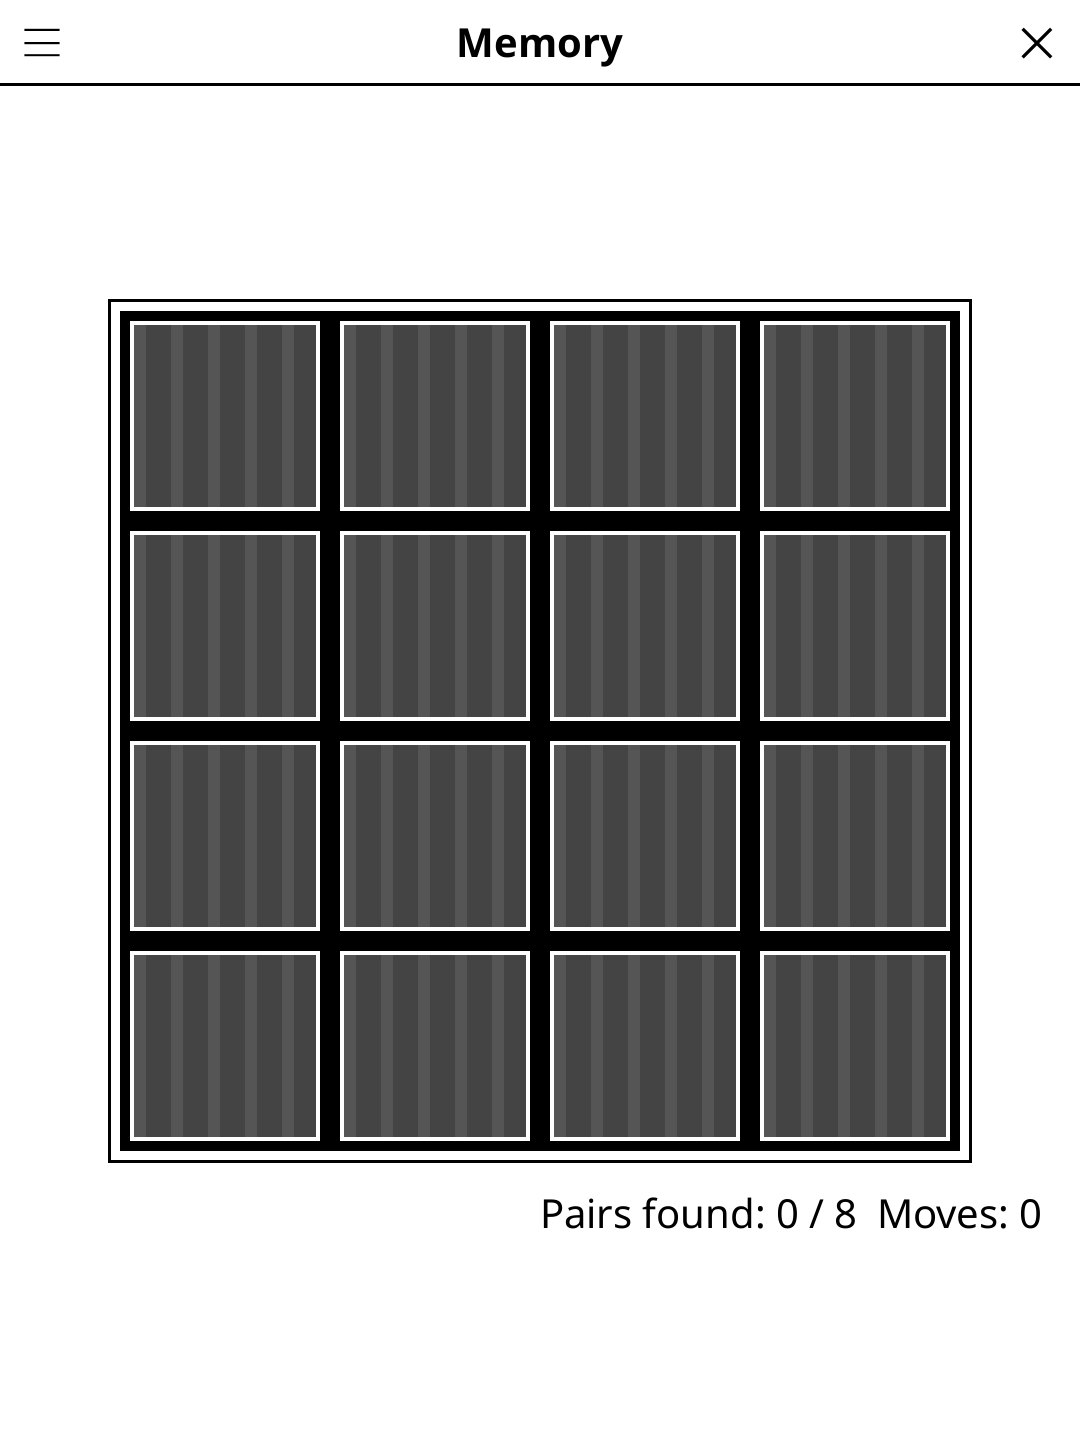
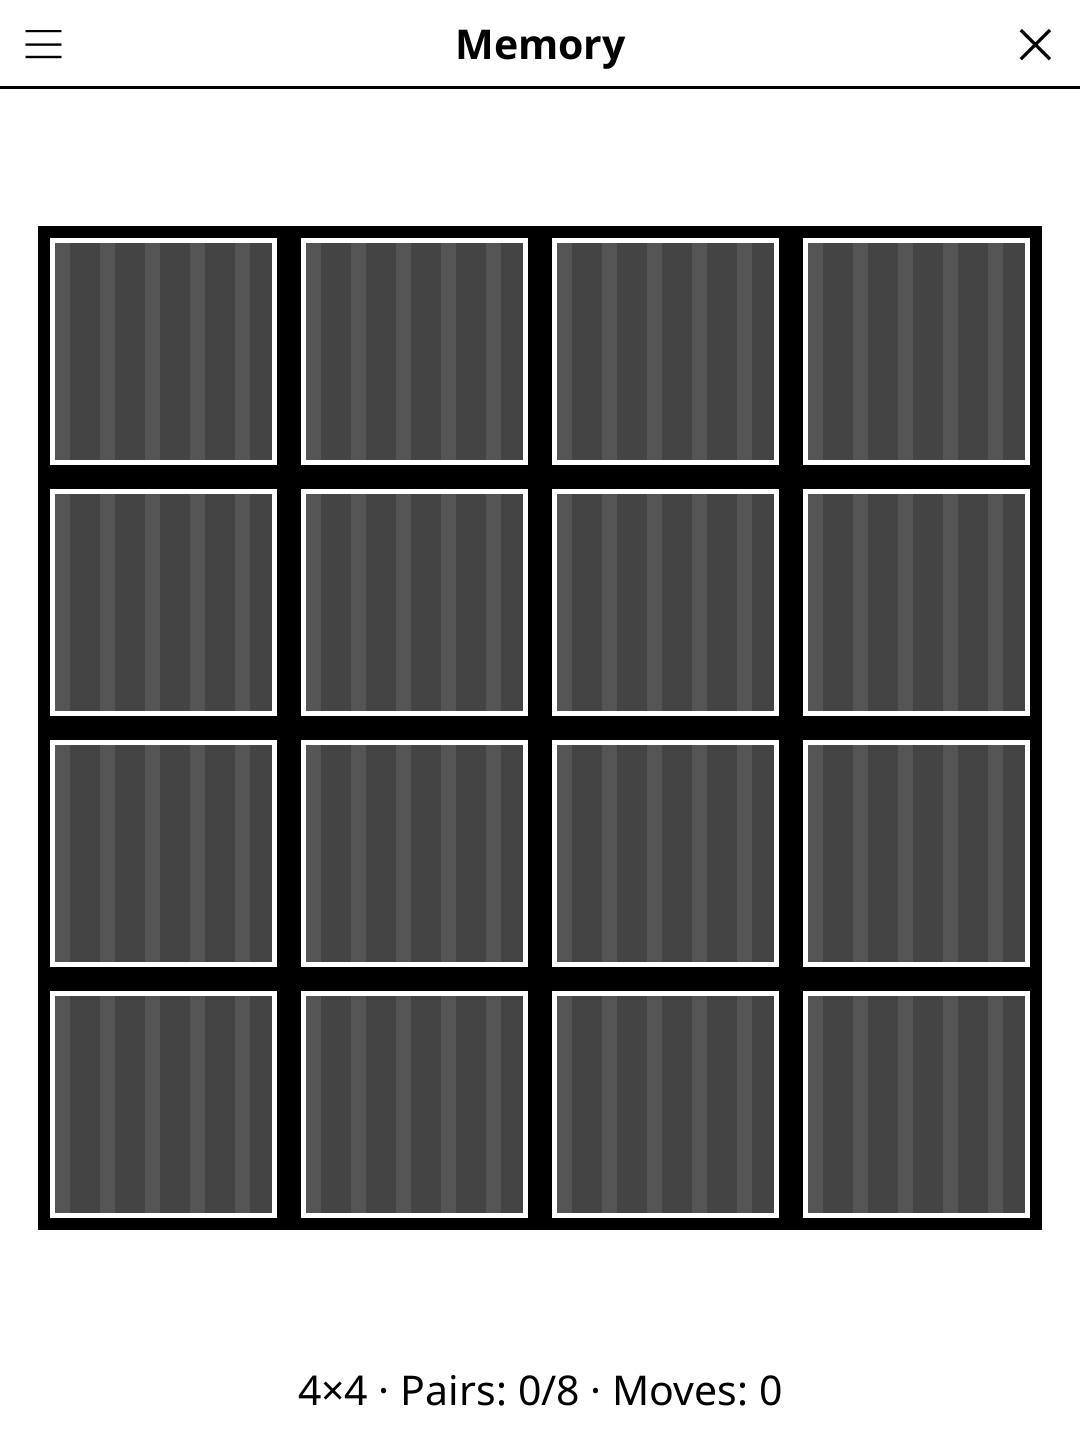
release: 1.2.0 -- redesigned screen, harmonised menu, New game at round end
Screen redesign (full-width action bar, unified pad, status line, larger
board), harmonised title-bar menu, and a "New game" button once the round
is over. See CHANGELOG.md.

diff --git a/CHANGELOG.md b/CHANGELOG.md
@@ -6,6 +6,28 @@ Reconstructed from this repository's git history: each release lists the
 feature and fix commits it carried. Version bumps, screenshot additions
 and CI syncs are left out.
 
+## [1.2.0] - 2026-10-30
+
+### Added
+- "New game" appears under the status line once every pair is found, so the
+  next round no longer needs the menu.
+
+### Changed
+- Redesigned play screen, in line with the other games: a larger board that
+  uses the full width and height available instead of a square, and a
+  status line that reads "size · Pairs: n/m · Moves: n" (or "· Player n ·
+  Score: a–b" in two-player mode) and wraps in landscape instead of being
+  cut off.
+- Title-bar menu in the same order as every other game, with the current
+  values shown: New game (was "New"), "Size: …" and "Players: 1" (was a
+  bare grid name and "1 player").
+- New README screenshot.
+
+### Fixed
+- The numbers on the cards were too big and overflowed them on high-DPI
+  screens: the font-fit loop never rejected a size. They are now fitted to
+  the card.
+
 ## [1.1.15] - 2026-10-01
 
 ### Fixed

diff --git a/README.md b/README.md
@@ -29,8 +29,8 @@ Find all matching pairs by flipping two cards at a time. Matching cards stay fac
 | Action | How |
 |--------|-----|
 | Flip a card | Tap it |
-| New game | Tap **New** |
-| Change grid size | Tap **Grid** |
+| New game | Tap **New game** |
+| Change grid size | Tap **Size** |
 | Show rules | Tap **Rules** |
 
 ## License
